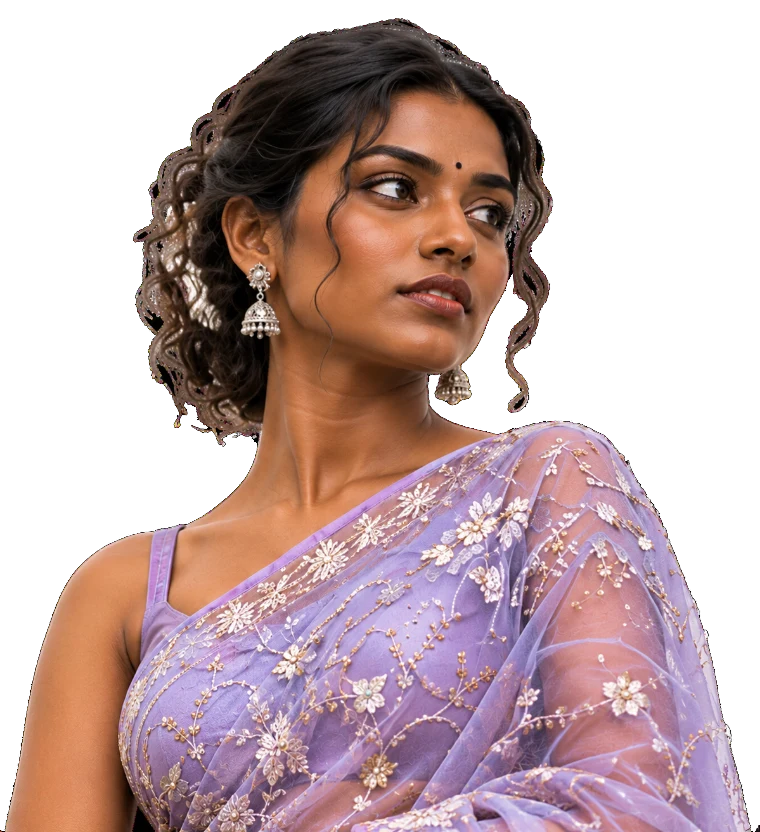
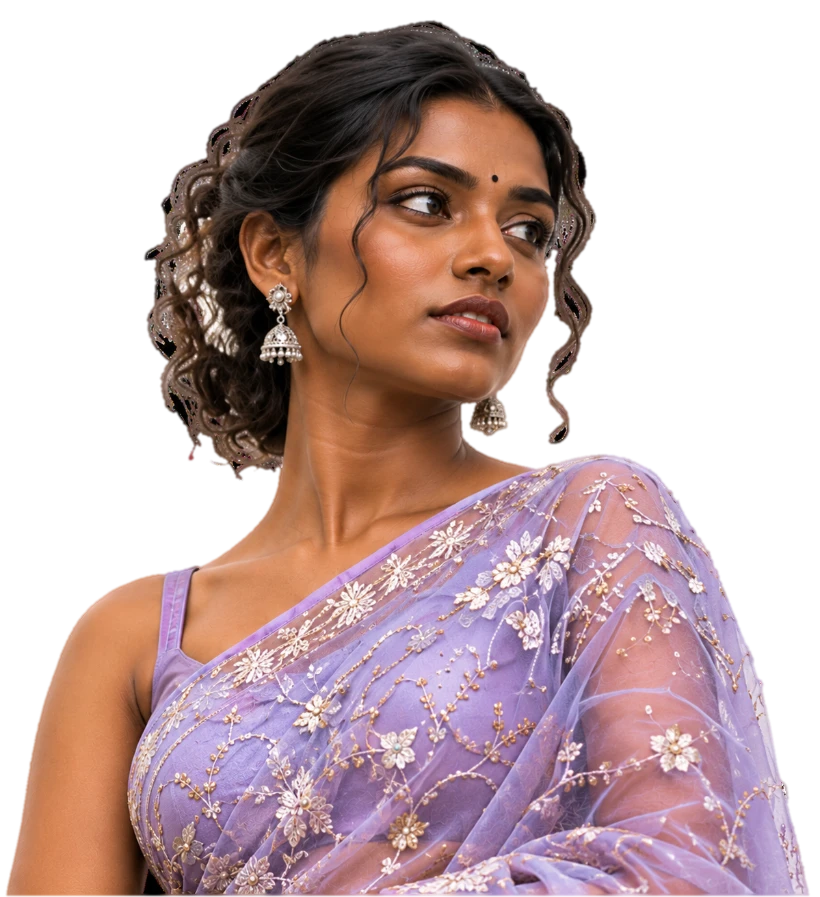
Re-cut the collection portraits with clean, de-fringed edges

diff --git a/src/components/Collections.tsx b/src/components/Collections.tsx
@@ -79,8 +79,8 @@ export function Collections() {
                 src={`/collection/${piece.id}.webp`}
                 alt={`${piece.name} saree`}
                 loading="lazy"
-                width={760}
-                height={832}
+                width={820}
+                height={897}
                 draggable={false}
                 className="absolute inset-x-0 bottom-0 h-full w-full object-contain object-bottom transition-transform duration-[1.2s] ease-silk group-hover:scale-[1.035]"
               />

diff --git a/CLAUDE.md b/CLAUDE.md
@@ -301,6 +301,7 @@ Owner request: append an entry here after every change session.
 - **2026‑11‑06** — Owner: relief "slightly less". `BUMP` reduced ≈25 %: maroon 5.2, ivory 2.3, navy 6.8, black 6, yellow 3.8.
 - **2026‑11‑06** — Owner: relief a little less again. `BUMP` ≈ −27 %: maroon 3.8, ivory 1.7, navy 5, black 4.4, yellow 2.8.
 - **2026‑11‑06** — Owner: **Collections section replaced** (old "Curated for you" 4-card block removed) to follow `assets/collection-section/Saree Atelier_ Eight Elegant Portraits.png`, in the site's own fonts and with minimal copy. New `src/data/collection.ts` (`FILTERS`, `PIECES`: id, name, price, three notes, tags) and a rewritten `Collections` in `Collections.tsx`: gold letter-spaced kicker "Collections" + big italic serif "Sarees" + hairline rule + one line; text filter chips All / Silk / Organza / Banarasi / Velvet / Festive (active = soft gold pill); 8 portrait cards (4 columns desktop, 2 mobile) with a hairline under each cut-out, name in serif, price, `a | b | c` notes and a save-heart (local state); GSAP scroll reveal, and cards rise in again on every filter change (`ScrollTrigger.refresh()` after). Portraits: the owner's `saree-menu-collection/*.png` → `public/collection/<id>.webp` (760×832, ~100–200 KB each, transparent). Six of the eight PNGs had a **solid black background, not real transparency** — keyed out in a headless-canvas prep step (flood from the top/sides through pixels with max channel ≤ 5, 80 % down the sides only so dark saree fabric at the bottom isn't eaten; 1 px rim feathered). File → piece: Maroon Banarasi → Gulmohar, Elegant Indian Saree → Noor, Jasmine Gajra → Rajshree, Mustard → Swarna, Green → Kaveri, Lilac → Madhavi, Elegant South Asian Saree → Veena, Purple → Nilambari. Names, prices and tags are the board's placeholders. The reference's "Sort by" and the board's own nav bar were left out (minimal). `#atelier` / `#about` still live in the Footer.
+- **2026‑11‑06** — Owner: the collection cut-outs had rough, dark edges. Re-cut all eight portraits at full resolution (1199 px) with a proper matting pass in a headless canvas: foreground mask (real alpha, or the flood-keyed black backdrop, threshold ≤ 9), speck removal (foreground bits < 1500 px dropped, pinholes < 600 px filled), 2 px erosion to kill the dark rim, a 1 px feathered alpha, and **colour de-fringing** (edge pixels take their colour from the solid interior just inside via a normalised blur), then downscaled to 820×897 WebP (~150 KB each). Checked at 2× on the page: no dark outline, smooth hair/saree edges. (The prep script lived in the scratchpad; to redo, re-key from `assets/collection-section/saree-menu-collection/*.png` the same way.)
 
 ## Next / ideas
 
